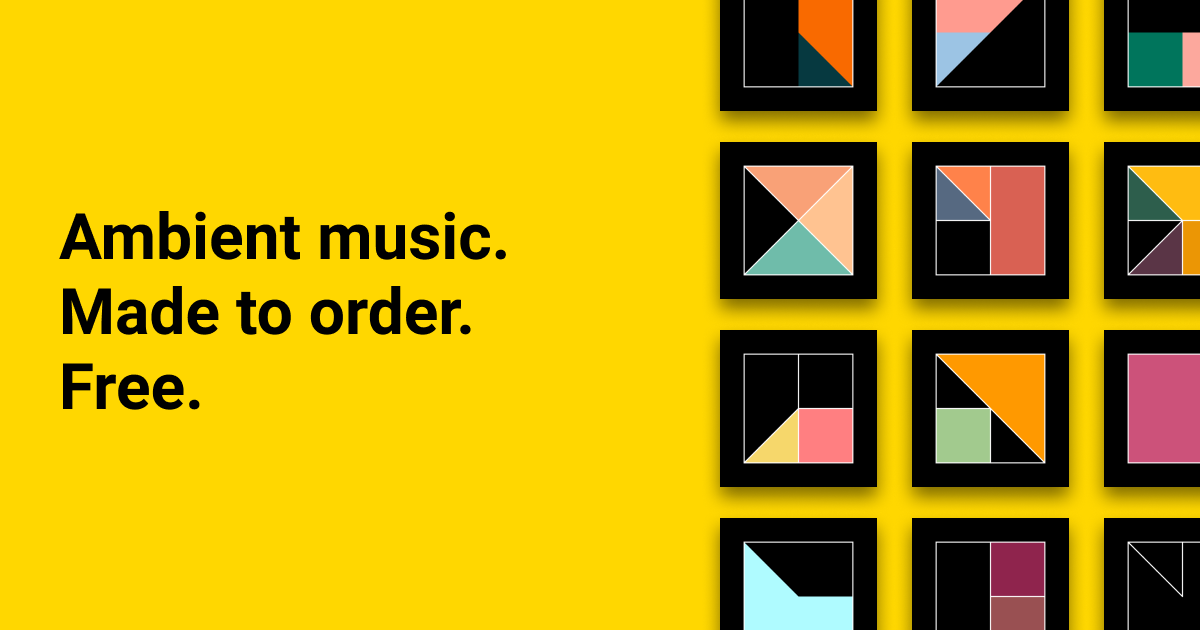
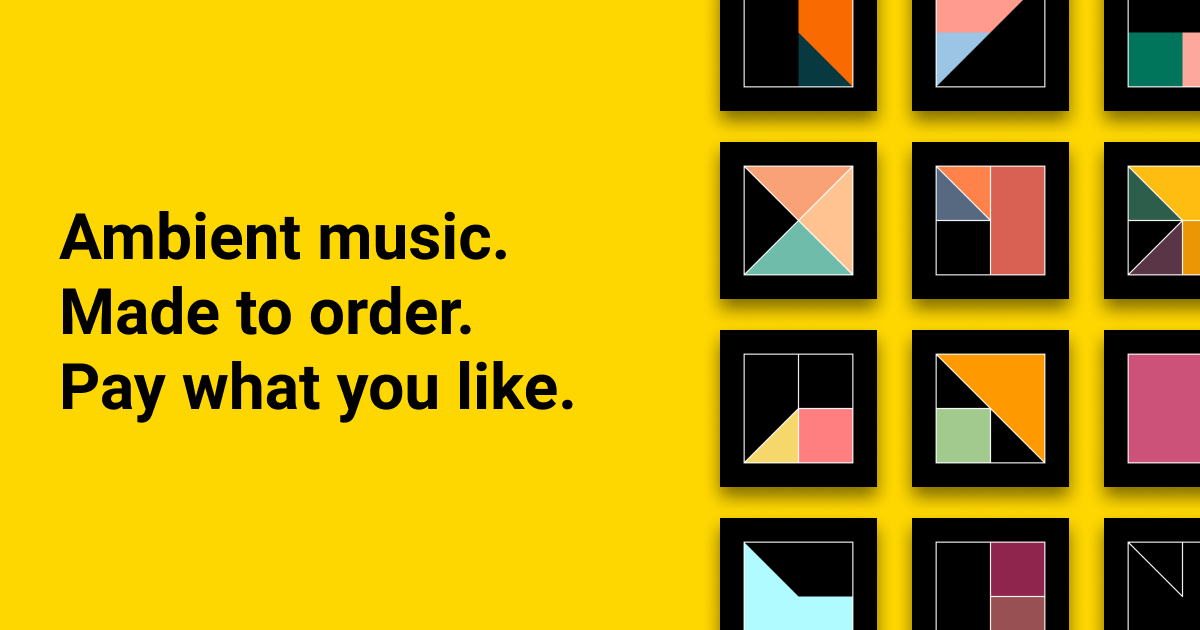
Update cover image, titles, and descriptions

Changed region(s): [[0.0617, 0.573, 0.4933, 0.6635]]

diff --git a/src/index.template.html b/src/index.template.html
@@ -11,17 +11,17 @@
     <meta name="author" content="Alex Bainter" />
     <meta
       name="description"
-      content="Download free tracks of any length from a variety of ambient generative music systems. Composed by a human, performed by computers."
+      content="Download tracks of any length from a variety of ambient generative music systems. Composed by a human, performed by computers."
     />
     <meta property="og:type" content="website" />
     <meta property="og:url" content="https://record.generative.fm" />
     <meta
       name="og:title"
-      content="Free ambient music, made to order by Generative.fm"
+      content="Made-to-order ambient music from Generative.fm"
     />
     <meta
       name="og:description"
-      content="Download free tracks of any length from a variety of ambient generative music systems. Composed by a human, performed by computers."
+      content="Download tracks of any length from a variety of ambient generative music systems. Composed by a human, performed by computers."
     />
     <meta
       name="og:image"
@@ -31,11 +31,11 @@
     <meta property="twitter:url" content="https://record.generative.fm" />
     <meta
       property="twitter:title"
-      content="Free ambient music, made to order by Generative.fm"
+      content="Made-to-order ambient music from Generative.fm"
     />
     <meta
       property="twitter:description"
-      content="Download free tracks of any length from a variety of ambient generative music systems. Composed by a human, performed by computers."
+      content="Download tracks of any length from a variety of ambient generative music systems. Composed by a human, performed by computers."
     />
     <meta
       property="twitter:image"
